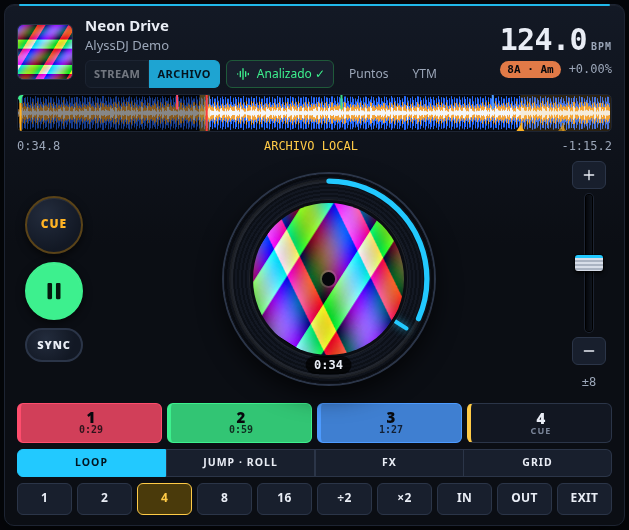
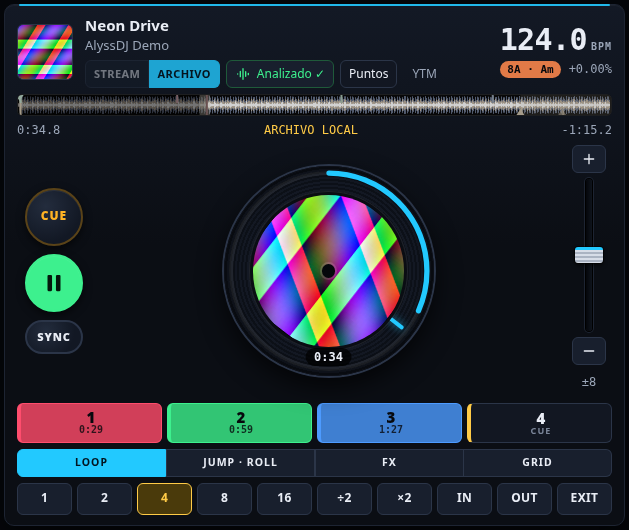
fix(ui): la vista general del deck es un minimapa fino y la onda con desplazamiento gana altura [sdd:2026-11-01-sin-video-fuentes-y-cola-analisis 5.1]

diff --git a/renderer/styles.css b/renderer/styles.css
@@ -200,7 +200,9 @@ body.learning [data-ctl].armed { outline: 2px solid var(--warn); }
 .kchip { display: inline-block; padding: 1px 7px; border-radius: 99px; font-family: var(--mono); font-size: 11px; font-weight: 600; color: #05080d; background: var(--k, var(--line-2)); }
 .kchip:empty, .kchip.none { background: var(--raised-2); color: var(--faint); }
 
-canvas.overview { width: 100%; height: 38px; background: var(--inset); border: 1px solid var(--line); border-radius: 5px; cursor: pointer; display: block; }
+/* la vista general es un minimapa de toda la pista (fino y apagado); la onda con desplazamiento es la que se mira para mezclar */
+canvas.overview { width: 100%; height: 22px; background: var(--inset); border: 1px solid var(--line); border-radius: 5px; cursor: pointer; display: block; filter: grayscale(.85) brightness(.85); }
+canvas.overview:hover { filter: none; }
 .times { display: flex; justify-content: space-between; font-family: var(--mono); font-size: 12px; color: var(--dim); }
 .times .state { color: var(--warn); }
 
@@ -585,7 +587,7 @@ fieldset { min-width: 0; }
 :is(body.am-compact, body[data-layout='compact']) .view-ytm, :is(body.am-compact, body[data-layout='compact']) .bank-tabs, :is(body.am-compact, body[data-layout='compact']) .pads .pane { display: none; }
 :is(body.am-compact, body[data-layout='compact']) .bpm { font-size: 20px; }
 :is(body.am-compact, body[data-layout='compact']) .sub { margin-top: 2px; }
-:is(body.am-compact, body[data-layout='compact']) canvas.overview { height: 24px; }
+:is(body.am-compact, body[data-layout='compact']) canvas.overview { height: 16px; }
 :is(body.am-compact, body[data-layout='compact']) .deck-body { flex: none; height: 84px; grid-template-columns: 82px minmax(0, 1fr) 40px; gap: 8px; }
 :is(body.am-compact, body[data-layout='compact']) .platter { min-height: 0; max-height: 84px; }
 :is(body.am-compact, body[data-layout='compact']) .transport { flex-direction: row; flex-wrap: wrap; gap: 4px; align-content: center; justify-content: center; }
@@ -703,7 +705,7 @@ dialog#help { width: 640px; }
 .tb-views { gap: var(--s-1); }
 .view-switch button span { display: inline; }
 @media (max-width: 1440px) { .view-switch button span { display: none; } }
-.deck-scroll { display: none; position: relative; height: 72px; background: linear-gradient(#06080c, #04050a); border: 1px solid var(--line); border-radius: 5px; overflow: hidden; }
+.deck-scroll { display: none; position: relative; height: 110px; background: linear-gradient(#06080c, #04050a); border: 1px solid var(--line); border-radius: 5px; overflow: hidden; }
 .deck-scroll canvas { width: 100%; height: 100%; display: block; }
 
 /* ondas dentro del deck: la franja superior desaparece y su altura pasa a la consola o a la librería */
@@ -711,7 +713,7 @@ body[data-waves='deck'] .waves { display: none; }
 body[data-waves='deck'] .deck-scroll { display: block; }
 body[data-waves='deck'] { grid-template-rows: 44px auto minmax(150px, 1fr); }
 body[data-layout='compact'][data-waves='deck'] { grid-template-rows: 40px auto minmax(150px, 1fr); }
-body[data-waves='deck'].am-compact .deck-scroll, body[data-waves='deck'][data-layout='compact'] .deck-scroll { height: 48px; }
+body[data-waves='deck'].am-compact .deck-scroll, body[data-waves='deck'][data-layout='compact'] .deck-scroll { height: 64px; }
 
 /* vista Ondas: ondas grandes, una tira por deck y el mezclador; sin librería */
 body[data-view='waves'] { grid-template-rows: 44px minmax(0, 1fr) auto; }
